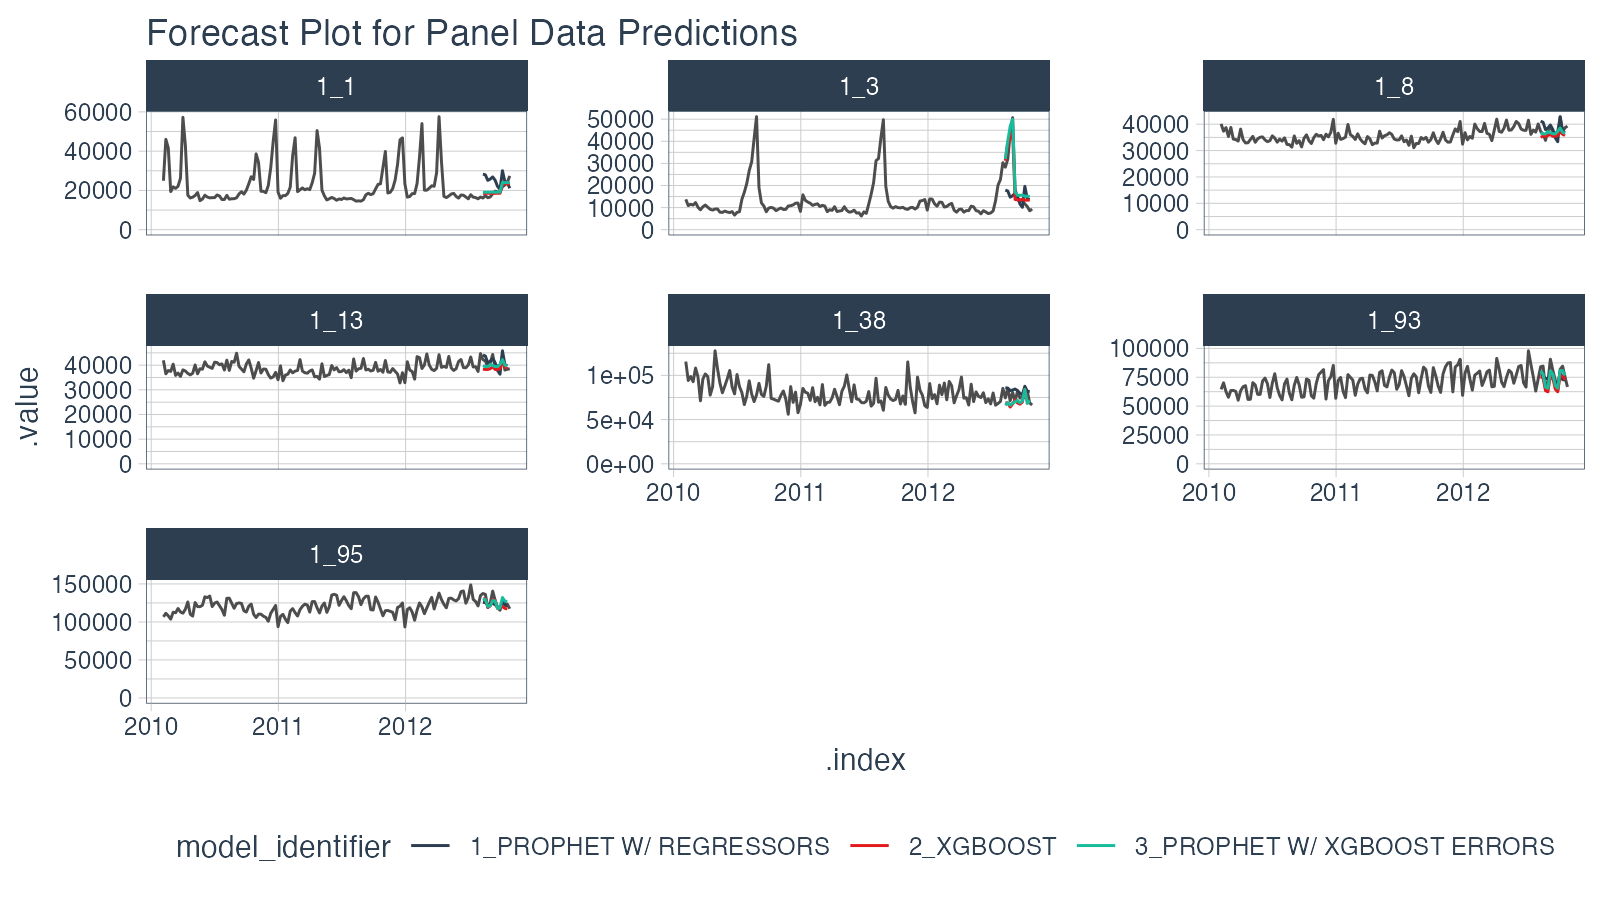
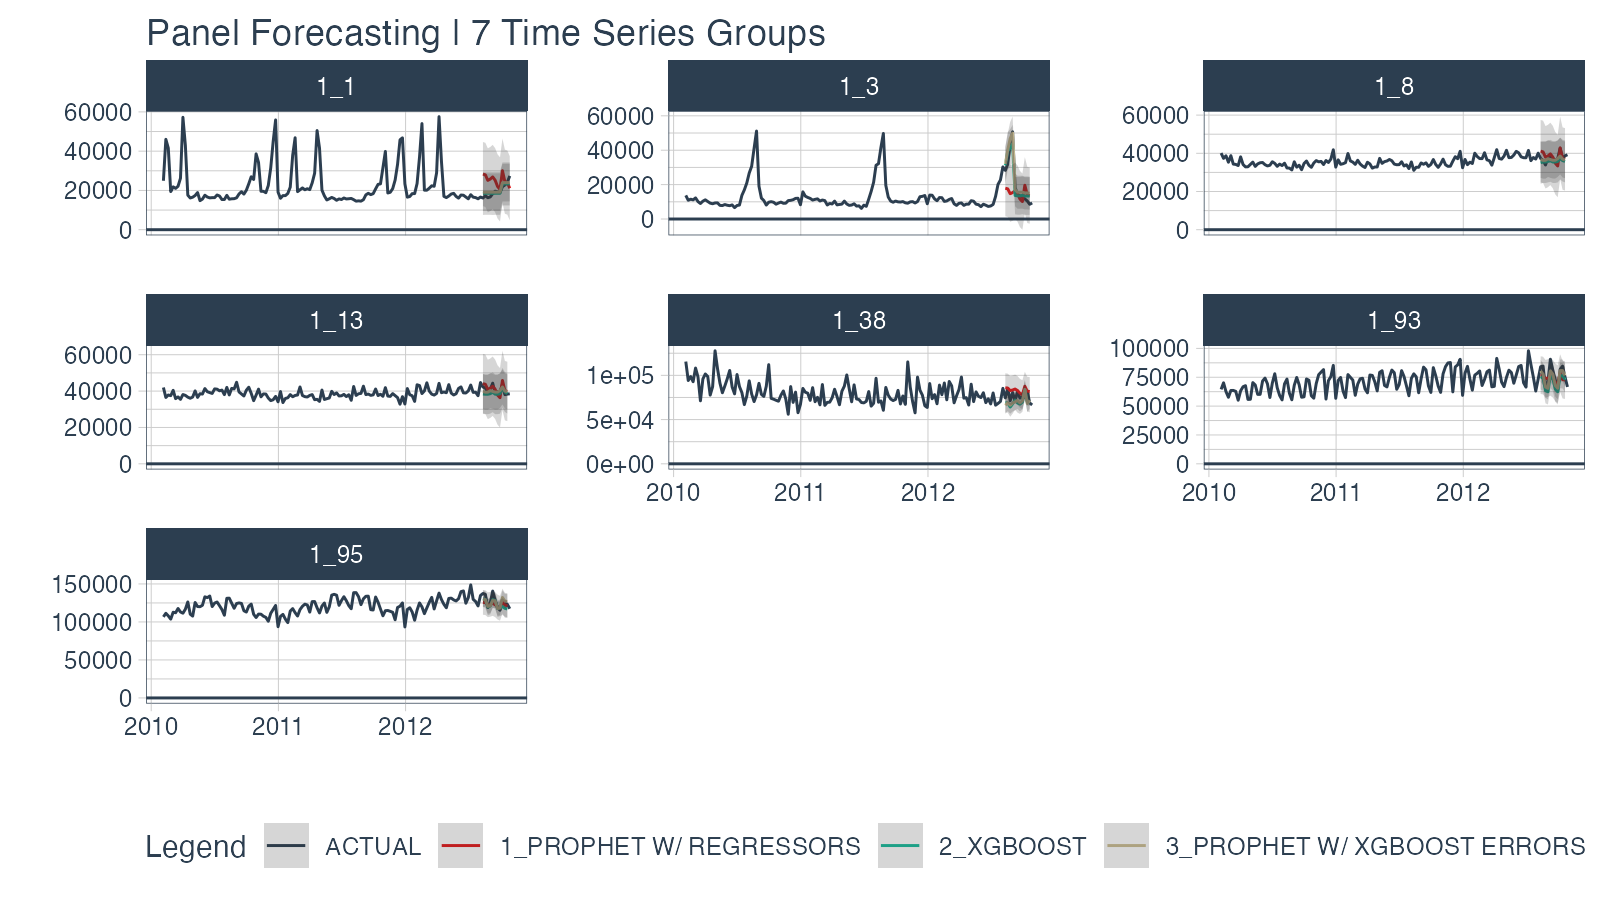
update vignette

diff --git a/docs/articles/panel-data.html b/docs/articles/panel-data.html
@@ -310,37 +310,38 @@
 <a href="#assess-a-single-resample-split" class="anchor"></a>Assess a Single Resample Split</h3>
 <p><strong>We can make a Panel Data forecast</strong>, which forecasts all of the time series groups at once. This method is much more efficient than iteratively performing predictions. However, not all time series models respond well to this approach.</p>
 <div class="sourceCode" id="cb13"><pre class="downlit">
-<span class="co"># Panel data forecast produces results at once</span>
-<span class="va">forecast_panel_tbl</span> <span class="op">&lt;-</span> <span class="va">model_tbl</span> <span class="op">%&gt;%</span>
+<span class="co"># Calibrate using the Test Sample</span>
+<span class="va">calibration_tbl</span> <span class="op">&lt;-</span> <span class="va">model_tbl</span> <span class="op">%&gt;%</span>
+  <span class="fu"><a href="https://rdrr.io/pkg/modeltime/man/modeltime_calibrate.html">modeltime_calibrate</a></span><span class="op">(</span><span class="fu">testing</span><span class="op">(</span><span class="va">walmart_tscv</span><span class="op">$</span><span class="va">splits</span><span class="op">[[</span><span class="fl">1</span><span class="op">]</span><span class="op">]</span><span class="op">)</span><span class="op">)</span>
+
+<span class="co"># Forecast the Test Sample</span>
+<span class="va">forecast_panel_tbl</span> <span class="op">&lt;-</span> <span class="va">calibration_tbl</span> <span class="op">%&gt;%</span>
   <span class="fu"><a href="https://rdrr.io/pkg/modeltime/man/modeltime_forecast.html">modeltime_forecast</a></span><span class="op">(</span>
     new_data      <span class="op">=</span> <span class="fu">testing</span><span class="op">(</span><span class="va">walmart_tscv</span><span class="op">$</span><span class="va">splits</span><span class="op">[[</span><span class="fl">1</span><span class="op">]</span><span class="op">]</span><span class="op">)</span>,
+    actual_data   <span class="op">=</span> <span class="va">data_prepared_tbl</span>,
     <span class="co"># Keep data allows us keep the ID feature for the time series groups</span>
     keep_data <span class="op">=</span> <span class="cn">TRUE</span>
   <span class="op">)</span> </pre></div>
 <p><strong>We can visualize the Panel Data forecasts on a single split</strong>. It’s a bit difficult to tell how each model is performing.</p>
 <div class="sourceCode" id="cb14"><pre class="downlit">
 <span class="va">forecast_panel_tbl</span> <span class="op">%&gt;%</span>
-  <span class="fu">mutate</span><span class="op">(</span>model_identifier <span class="op">=</span> <span class="fu">str_c</span><span class="op">(</span><span class="va">.model_id</span>, <span class="st">"_"</span>, <span class="va">.model_desc</span><span class="op">)</span><span class="op">)</span> <span class="op">%&gt;%</span>
-  <span class="fu"><a href="https://rdrr.io/r/stats/filter.html">filter</a></span><span class="op">(</span><span class="va">.key</span> <span class="op">==</span> <span class="st">"prediction"</span><span class="op">)</span> <span class="op">%&gt;%</span>
-  <span class="fu">ggplot</span><span class="op">(</span><span class="fu">aes</span><span class="op">(</span><span class="va">.index</span>, <span class="va">.value</span>, color <span class="op">=</span> <span class="va">model_identifier</span><span class="op">)</span><span class="op">)</span> <span class="op">+</span>
-  <span class="fu">geom_line</span><span class="op">(</span><span class="fu">aes</span><span class="op">(</span><span class="va">Date</span>, <span class="va">Weekly_Sales</span><span class="op">)</span>, color <span class="op">=</span> <span class="st">"gray30"</span>,
-            data <span class="op">=</span> <span class="va">data_prepared_tbl</span><span class="op">)</span> <span class="op">+</span>
-  <span class="fu">geom_line</span><span class="op">(</span><span class="op">)</span> <span class="op">+</span> 
-  <span class="fu">facet_wrap</span><span class="op">(</span><span class="op">~</span> <span class="va">id</span>, scales <span class="op">=</span> <span class="st">"free_y"</span><span class="op">)</span> <span class="op">+</span>
-  <span class="fu">expand_limits</span><span class="op">(</span>y <span class="op">=</span> <span class="fl">0</span><span class="op">)</span> <span class="op">+</span>
-  <span class="fu"><a href="https://rdrr.io/pkg/tidyquant/man/theme_tq.html">theme_tq</a></span><span class="op">(</span><span class="op">)</span> <span class="op">+</span>
-  <span class="fu"><a href="https://rdrr.io/pkg/tidyquant/man/scale_manual.html">scale_color_tq</a></span><span class="op">(</span><span class="op">)</span> <span class="op">+</span>
-  <span class="fu">labs</span><span class="op">(</span>title <span class="op">=</span> <span class="st">"Forecast Plot for Panel Data Predictions"</span><span class="op">)</span></pre></div>
+  <span class="fu">group_by</span><span class="op">(</span><span class="va">id</span><span class="op">)</span> <span class="op">%&gt;%</span>
+  <span class="fu"><a href="https://rdrr.io/pkg/modeltime/man/plot_modeltime_forecast.html">plot_modeltime_forecast</a></span><span class="op">(</span>
+    .facet_ncol  <span class="op">=</span> <span class="fl">3</span>,
+    .y_intercept <span class="op">=</span> <span class="fl">0</span>, 
+    .interactive <span class="op">=</span> <span class="cn">FALSE</span>,
+    .title       <span class="op">=</span> <span class="st">"Panel Forecasting | 7 Time Series Groups"</span>
+  <span class="op">)</span></pre></div>
 <div class="figure" style="text-align: center">
-<img src="panel-data_files/figure-html/unnamed-chunk-12-1.png" alt="Forecast Plot for Panel Data Predictions" width="95%"><p class="caption">
-Forecast Plot for Panel Data Predictions
+<img src="panel-data_files/figure-html/unnamed-chunk-12-1.png" alt="Panel Forecasting | 7 Time Series Groups" width="95%"><p class="caption">
+Panel Forecasting | 7 Time Series Groups
 </p>
 </div>
 </div>
 </div>
-<div id="quantifying-prediction-error" class="section level1">
+<div id="quantifying-prediction-error-over-time" class="section level1">
 <h1 class="hasAnchor">
-<a href="#quantifying-prediction-error" class="anchor"></a>Quantifying Prediction Error</h1>
+<a href="#quantifying-prediction-error-over-time" class="anchor"></a>Quantifying Prediction Error Over Time</h1>
 <p><strong>We’ve made predictions, but this doesn’t tell us how the models will do over time. We need to quantify prediction error.</strong> To do so, we’ll evaluate our models using time series resamples. This technique involves making resamples across time series windows and refitting our models to the resample data sets, producing predictions, and quantifying the error from the predictions.</p>
 <div id="apply-models-to-resamples" class="section level3">
 <h3 class="hasAnchor">
@@ -392,7 +393,7 @@ Forecast Plot for Panel Data Predictions
   font-family: -apple-system, BlinkMacSystemFont, 'Segoe UI', Roboto, Oxygen, Ubuntu, Cantarell, 'Helvetica Neue', 'Fira Sans', 'Droid Sans', Arial, sans-serif;
 }
 
-#rdefeobhgg .gt_table {
+#lhcusyiixt .gt_table {
   display: table;
   border-collapse: collapse;
   margin-left: auto;
@@ -417,7 +418,7 @@ Forecast Plot for Panel Data Predictions
   border-left-color: #D3D3D3;
 }
 
-#rdefeobhgg .gt_heading {
+#lhcusyiixt .gt_heading {
   background-color: #FFFFFF;
   text-align: center;
   border-bottom-color: #FFFFFF;
@@ -429,7 +430,7 @@ Forecast Plot for Panel Data Predictions
   border-right-color: #D3D3D3;
 }
 
-#rdefeobhgg .gt_title {
+#lhcusyiixt .gt_title {
   color: #333333;
   font-size: 125%;
   font-weight: initial;
@@ -439,7 +440,7 @@ Forecast Plot for Panel Data Predictions
   border-bottom-width: 0;
 }
 
-#rdefeobhgg .gt_subtitle {
+#lhcusyiixt .gt_subtitle {
   color: #333333;
   font-size: 85%;
   font-weight: initial;
@@ -449,13 +450,13 @@ Forecast Plot for Panel Data Predictions
   border-top-width: 0;
 }
 
-#rdefeobhgg .gt_bottom_border {
+#lhcusyiixt .gt_bottom_border {
   border-bottom-style: solid;
   border-bottom-width: 2px;
   border-bottom-color: #D3D3D3;
 }
 
-#rdefeobhgg .gt_col_headings {
+#lhcusyiixt .gt_col_headings {
   border-top-style: solid;
   border-top-width: 2px;
   border-top-color: #D3D3D3;
@@ -470,7 +471,7 @@ Forecast Plot for Panel Data Predictions
   border-right-color: #D3D3D3;
 }
 
-#rdefeobhgg .gt_col_heading {
+#lhcusyiixt .gt_col_heading {
   color: #333333;
   background-color: #FFFFFF;
   font-size: 100%;
@@ -490,7 +491,7 @@ Forecast Plot for Panel Data Predictions
   overflow-x: hidden;
 }
 
-#rdefeobhgg .gt_column_spanner_outer {
+#lhcusyiixt .gt_column_spanner_outer {
   color: #333333;
   background-color: #FFFFFF;
   font-size: 100%;
@@ -502,15 +503,15 @@ Forecast Plot for Panel Data Predictions
   padding-right: 4px;
 }
 
-#rdefeobhgg .gt_column_spanner_outer:first-child {
+#lhcusyiixt .gt_column_spanner_outer:first-child {
   padding-left: 0;
 }
 
-#rdefeobhgg .gt_column_spanner_outer:last-child {
+#lhcusyiixt .gt_column_spanner_outer:last-child {
   padding-right: 0;
 }
 
-#rdefeobhgg .gt_column_spanner {
+#lhcusyiixt .gt_column_spanner {
   border-bottom-style: solid;
   border-bottom-width: 2px;
   border-bottom-color: #D3D3D3;
@@ -522,7 +523,7 @@ Forecast Plot for Panel Data Predictions
   width: 100%;
 }
 
-#rdefeobhgg .gt_group_heading {
+#lhcusyiixt .gt_group_heading {
   padding: 8px;
   color: #333333;
   background-color: #FFFFFF;
@@ -544,7 +545,7 @@ Forecast Plot for Panel Data Predictions
   vertical-align: middle;
 }
 
-#rdefeobhgg .gt_empty_group_heading {
+#lhcusyiixt .gt_empty_group_heading {
   padding: 0.5px;
   color: #333333;
   background-color: #FFFFFF;
@@ -559,15 +560,15 @@ Forecast Plot for Panel Data Predictions
   vertical-align: middle;
 }
 
-#rdefeobhgg .gt_from_md > :first-child {
+#lhcusyiixt .gt_from_md > :first-child {
   margin-top: 0;
 }
 
-#rdefeobhgg .gt_from_md > :last-child {
+#lhcusyiixt .gt_from_md > :last-child {
   margin-bottom: 0;
 }
 
-#rdefeobhgg .gt_row {
+#lhcusyiixt .gt_row {
   padding-top: 8px;
   padding-bottom: 8px;
   padding-left: 5px;
@@ -586,7 +587,7 @@ Forecast Plot for Panel Data Predictions
   overflow-x: hidden;
 }
 
-#rdefeobhgg .gt_stub {
+#lhcusyiixt .gt_stub {
   color: #333333;
   background-color: #FFFFFF;
   font-size: 100%;
@@ -598,7 +599,7 @@ Forecast Plot for Panel Data Predictions
   padding-left: 12px;
 }
 
-#rdefeobhgg .gt_summary_row {
+#lhcusyiixt .gt_summary_row {
   color: #333333;
   background-color: #FFFFFF;
   text-transform: inherit;
@@ -608,7 +609,7 @@ Forecast Plot for Panel Data Predictions
   padding-right: 5px;
 }
 
-#rdefeobhgg .gt_first_summary_row {
+#lhcusyiixt .gt_first_summary_row {
   padding-top: 8px;
   padding-bottom: 8px;
   padding-left: 5px;
@@ -618,7 +619,7 @@ Forecast Plot for Panel Data Predictions
   border-top-color: #D3D3D3;
 }
 
-#rdefeobhgg .gt_grand_summary_row {
+#lhcusyiixt .gt_grand_summary_row {
   color: #333333;
   background-color: #FFFFFF;
   text-transform: inherit;
@@ -628,7 +629,7 @@ Forecast Plot for Panel Data Predictions
   padding-right: 5px;
 }
 
-#rdefeobhgg .gt_first_grand_summary_row {
+#lhcusyiixt .gt_first_grand_summary_row {
   padding-top: 8px;
   padding-bottom: 8px;
   padding-left: 5px;
@@ -638,11 +639,11 @@ Forecast Plot for Panel Data Predictions
   border-top-color: #D3D3D3;
 }
 
-#rdefeobhgg .gt_striped {
+#lhcusyiixt .gt_striped {
   background-color: rgba(128, 128, 128, 0.05);
 }
 
-#rdefeobhgg .gt_table_body {
+#lhcusyiixt .gt_table_body {
   border-top-style: solid;
   border-top-width: 2px;
   border-top-color: #D3D3D3;
@@ -651,7 +652,7 @@ Forecast Plot for Panel Data Predictions
   border-bottom-color: #D3D3D3;
 }
 
-#rdefeobhgg .gt_footnotes {
+#lhcusyiixt .gt_footnotes {
   color: #333333;
   background-color: #FFFFFF;
   border-bottom-style: none;
@@ -665,13 +666,13 @@ Forecast Plot for Panel Data Predictions
   border-right-color: #D3D3D3;
 }
 
-#rdefeobhgg .gt_footnote {
+#lhcusyiixt .gt_footnote {
   margin: 0px;
   font-size: 90%;
   padding: 4px;
 }
 
-#rdefeobhgg .gt_sourcenotes {
+#lhcusyiixt .gt_sourcenotes {
   color: #333333;
   background-color: #FFFFFF;
   border-bottom-style: none;
@@ -685,46 +686,46 @@ Forecast Plot for Panel Data Predictions
   border-right-color: #D3D3D3;
 }
 
-#rdefeobhgg .gt_sourcenote {
+#lhcusyiixt .gt_sourcenote {
   font-size: 90%;
   padding: 4px;
 }
 
-#rdefeobhgg .gt_left {
+#lhcusyiixt .gt_left {
   text-align: left;
 }
 
-#rdefeobhgg .gt_center {
+#lhcusyiixt .gt_center {
   text-align: center;
 }
 
-#rdefeobhgg .gt_right {
+#lhcusyiixt .gt_right {
   text-align: right;
   font-variant-numeric: tabular-nums;
 }
 
-#rdefeobhgg .gt_font_normal {
+#lhcusyiixt .gt_font_normal {
   font-weight: normal;
 }
 
-#rdefeobhgg .gt_font_bold {
+#lhcusyiixt .gt_font_bold {
   font-weight: bold;
 }
 
-#rdefeobhgg .gt_font_italic {
+#lhcusyiixt .gt_font_italic {
   font-style: italic;
 }
 
-#rdefeobhgg .gt_super {
+#lhcusyiixt .gt_super {
   font-size: 65%;
 }
 
-#rdefeobhgg .gt_footnote_marks {
+#lhcusyiixt .gt_footnote_marks {
   font-style: italic;
   font-size: 65%;
 }
 </style>
-<div id="rdefeobhgg" style="overflow-x:auto;overflow-y:auto;width:auto;height:auto;"><table class="table gt_table">
+<div id="lhcusyiixt" style="overflow-x:auto;overflow-y:auto;width:auto;height:auto;"><table class="table gt_table">
 <thead class="gt_header">
 <tr>
 <th colspan="16" class="gt_heading gt_title gt_font_normal" style>Accuracy Table</th>
